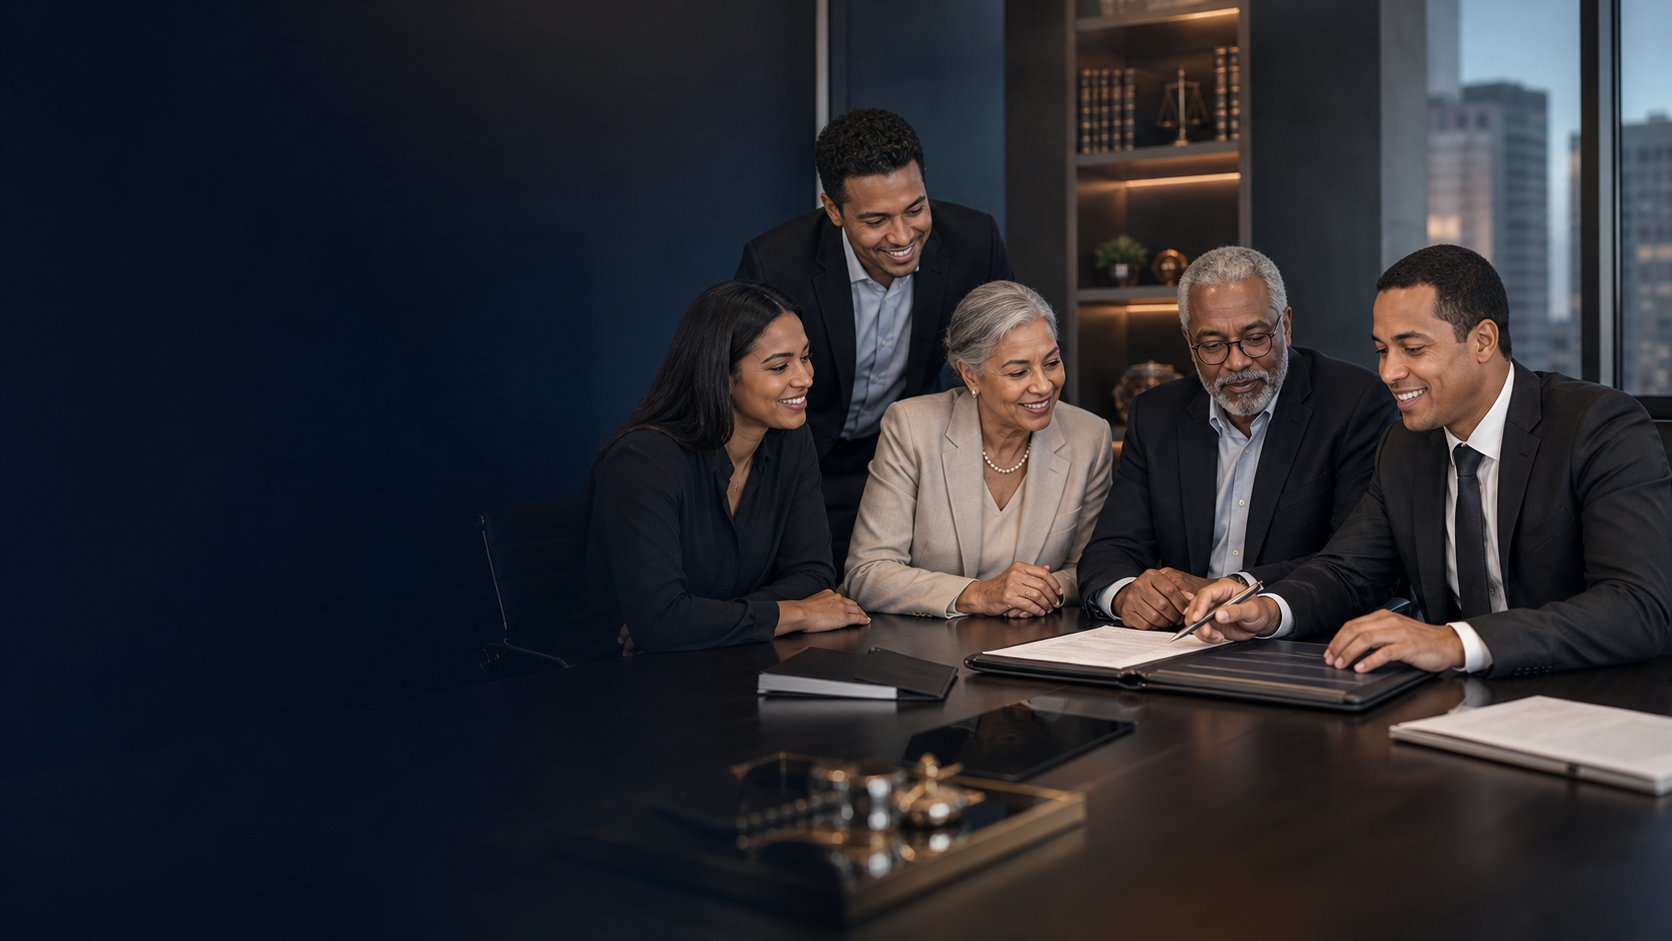
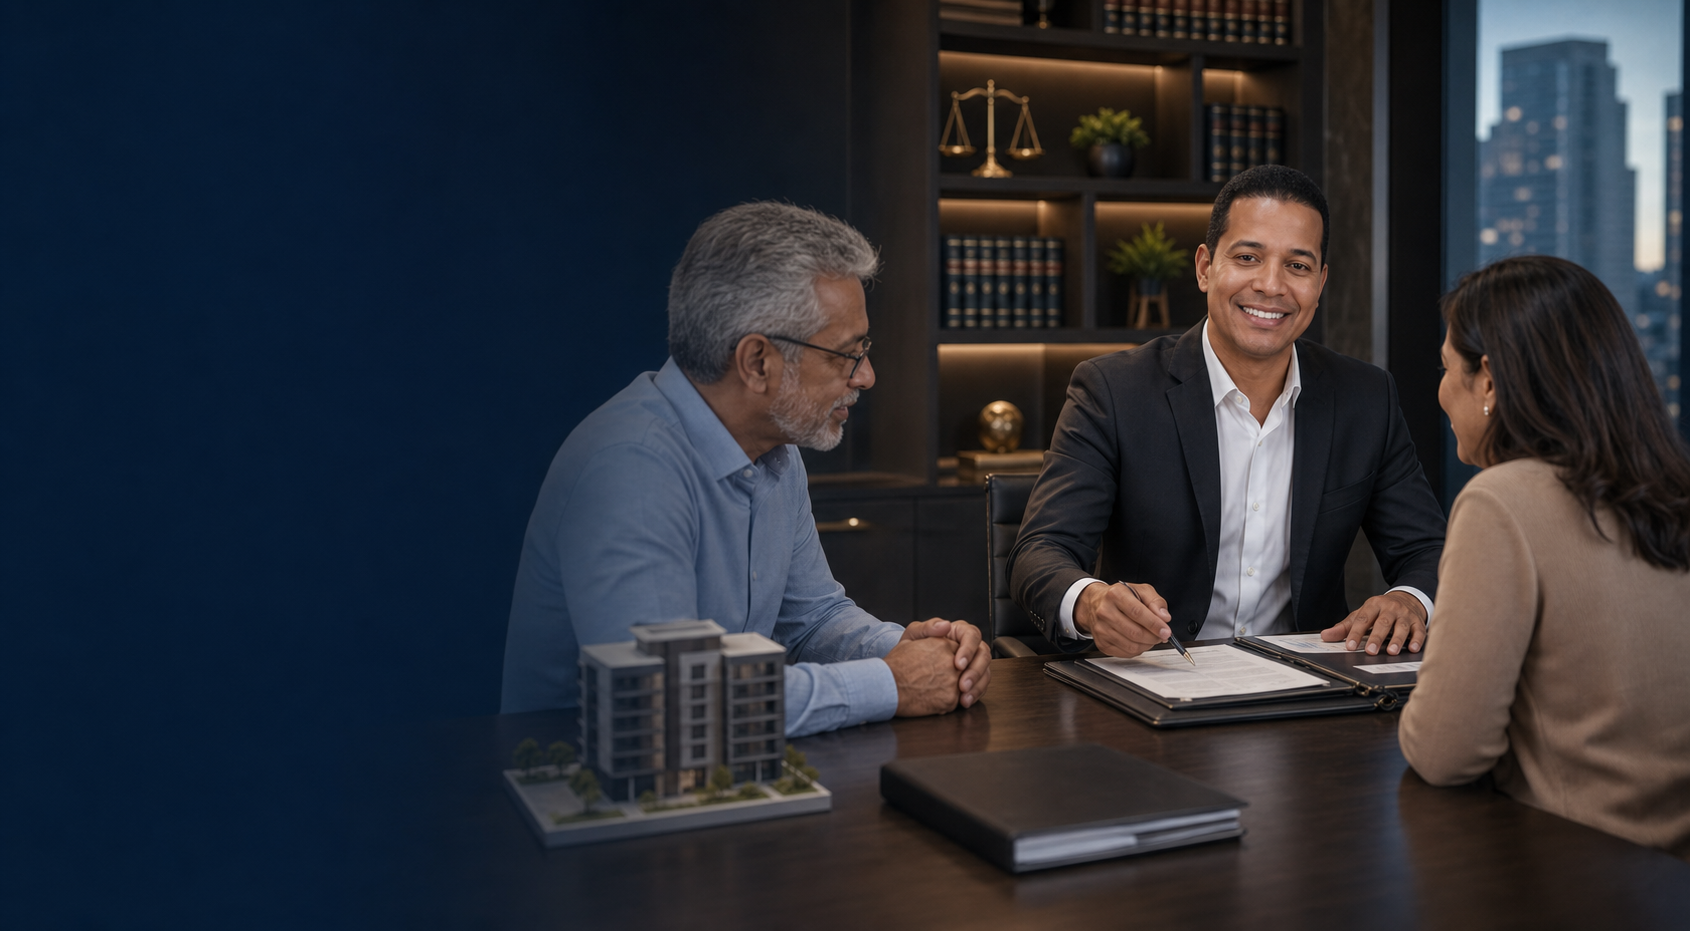
Atualiza hero com advogado na imagem principal

diff --git a/styles.css b/styles.css
@@ -165,14 +165,14 @@ p {
 }
 
 .hero-media {
-  background: url("/douglas-ribeiro-landing/assets/holding-hero.png") center right / cover no-repeat;
+  background: url("assets/holding-hero.png") center right / cover no-repeat;
   transform: scale(1.02);
 }
 
 .hero-shade {
   background:
-    linear-gradient(90deg, rgba(5, 7, 11, 0.98) 0%, rgba(7, 17, 31, 0.9) 38%, rgba(7, 17, 31, 0.26) 72%),
-    linear-gradient(0deg, rgba(5, 7, 11, 0.76) 0%, transparent 44%);
+    linear-gradient(90deg, rgba(5, 7, 11, 0.98) 0%, rgba(7, 17, 31, 0.86) 36%, rgba(7, 17, 31, 0.1) 66%),
+    linear-gradient(0deg, rgba(5, 7, 11, 0.58) 0%, transparent 46%);
 }
 
 .hero-content {
@@ -493,7 +493,7 @@ h3 {
   padding-inline: clamp(18px, 5vw, 72px);
   background:
     linear-gradient(rgba(7, 17, 31, 0.92), rgba(7, 17, 31, 0.92)),
-    url("/douglas-ribeiro-landing/assets/holding-hero.png") center / cover no-repeat fixed;
+    url("assets/holding-hero.png") center / cover no-repeat fixed;
 }
 
 .authority > div {
@@ -660,7 +660,7 @@ details p {
   color: var(--white);
   background:
     linear-gradient(90deg, rgba(5, 7, 11, 0.98), rgba(7, 17, 31, 0.88)),
-    url("/douglas-ribeiro-landing/assets/holding-hero.png") center right / cover no-repeat;
+    url("assets/holding-hero.png") center right / cover no-repeat;
 }
 
 .page-hero .inner,